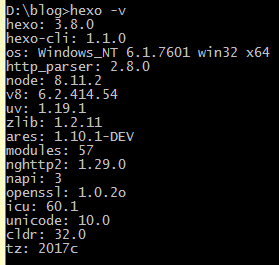
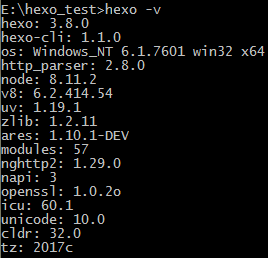
hexo blog

Changed region(s): [[0.0, 0.0, 0.9851, 1.0], [0.5672, 0.031, 0.597, 0.062]]

diff --git a/source/_posts/Hexo-Github-io-blog.md b/source/_posts/Hexo-Github-io-blog.md
@@ -8,33 +8,50 @@ tags:
 ---
 
 ## 背景知识
+
 ### Github Page是什么
+
 Github是全球最大的开源社区，Github Page是面向用户、组织和项目开放的公共静态页面搭建托管服务，站点可以被免费托管在Github上。
 
 ### Hexo是什么
+
 你可以将你的静态页面直接放在Github Page上，也可以用Hexo或者Jekyll等博客框架自动生成站点。
 
 Hexo 是一个快速、简洁且高效的博客框架。Hexo 使用 Markdown（或其他渲染引擎）解析文章，在几秒内，即可利用靓丽的主题生成静态网页。
 
 ## 基础构建步骤
 
-1、 安装Node.js和配置好Node.js环境。
+1、 安装Node.js，并配置好Node.js环境。
 
-2、 安装Git和配置好Git环境。
+2、 安装Git，并配置好Git环境。
 
-3、 如果没有Github账户，先注册Github账户，然后新建项目，项目必须要遵守格式:“Github账户名.github.io”，防止接下来的很多麻烦。
+3、 如果没有Github账户，先注册Github账户，然后新建项目，项目必须要遵守格式:“Github账户名.github.io”，这样能够防止接下来的很多麻烦。访问“http://Github账户名.github.io” ，发现网址已经可以通过网络访问。
 
-4、 访问“http://Github账户名.github.io”，发现网址已经可以通过网络访问。
+4、 安装Hexo。
 
-5、 安装Hexo，在自己认为合适的地方创个文件夹，例如在D盘创建blog文件夹。然后通过cd命令行进入到该文件夹里面。
+① 安装Hexo，在自己认为合适的地方创个文件夹，例如在E盘创建hexo_test文件夹。然后通过cd命令行进入到该文件夹里面。
 
-6、 输入npm install hexo -g，开始安装Hexo。安装完成后可以输入hexo -v，检查hexo是否安装成功，安装成功会有类似如下输出：
+② 输入npm install hexo -g，开始安装Hexo。安装完成后可以输入hexo -v，检查hexo是否安装成功，安装成功会有类似如下输出：
 
 ![验证hexo是否安装成功](Hexo-Github-io-blog/hexo_v.PNG)
 
-7、 输入hexo init，初始化该文件夹,看到输出“Start blogging with Hexo！”，表明初始化成功：
+③ 输入hexo init，初始化该文件夹,看到输出“Start blogging with Hexo！”，表明初始化成功：
 
 ![初始化成功](Hexo-Github-io-blog/hexo_init.png)
+
+④ 输入npm install，安装所需要的组件，等待安装完成。
+
+⑤ 输入hexo g，生成网站静态文件。
+
+![生成静态文件](Hexo-Github-io-blog/hexo_g.PNG)
+
+⑥ 输入hexo s，开启本地服务器：
+
+![开启服务器](Hexo-Github-io-blog/hexo_s.PNG)
+
+端口号存在被占用的可能，可以在服务器停止的情况下，输入“hexo server -p 端口号”来改变端口号。按照上面提示，在浏览器访问http://localhost:4000/，打开类似下图网页，证明Hexo本地服务器启动成功。
+
+![开启服务器](Hexo-Github-io-blog/hexo_localhost.PNG)
 
 
 ## 参考资料
